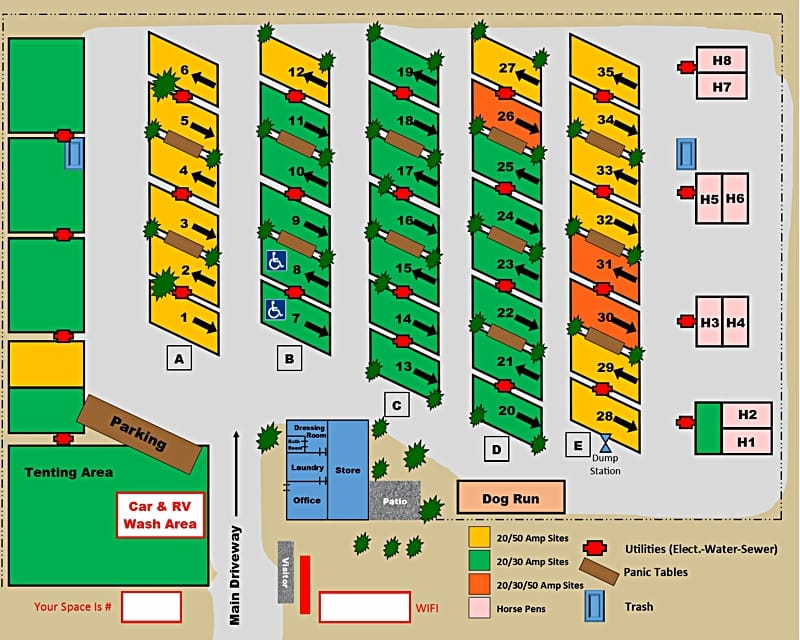
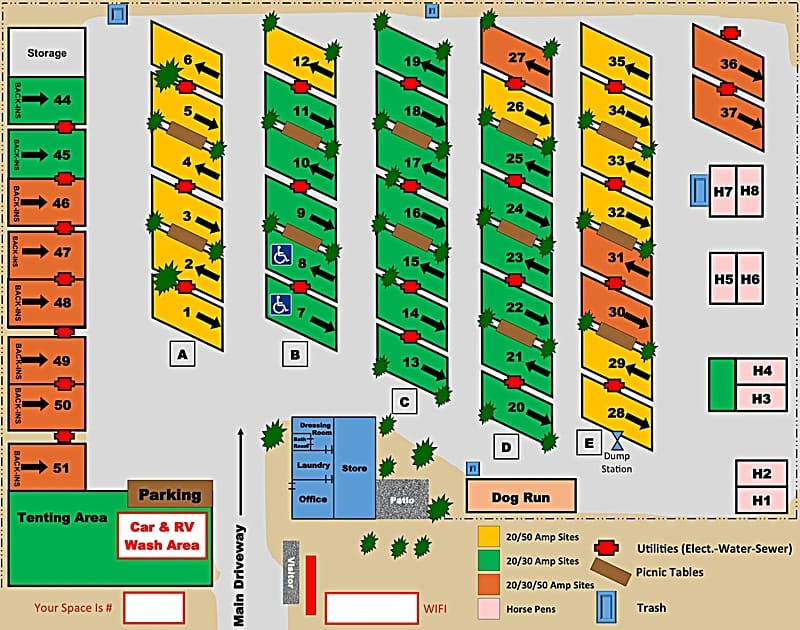
new maps

diff --git a/index.html b/index.html
@@ -115,8 +115,7 @@
 				Campground overview
 			</h3>
 			<ul>
-				<li>35 full-service spots water, electric, &amp; sewer</li>
-				<li>16 water &amp; electric spots</li>
+				<li>45 full-service double-wide spaces</li>
 				<li>Pull-through sites</li>
 				<li>Big-rig access</li>
 				<li>Tent camping</li>
@@ -128,9 +127,9 @@
 				Pricing
 			</h3>
 			<ul>
-				<li>$24 a night</li>
+				<li>$27 for 30-amp space and $29 for 50-amp space</li>
 				<li>$350 per month (includes electric)</li>
-				<li>$2 per additional person over 3 </li>
+				<li>$2 per additional person over 3</li>
 				<li>We also offer full time resident spots</li>
 				<li>We accept Visa and Mastercard</li>
 			</ul>

diff --git a/map.html b/map.html
@@ -118,7 +118,7 @@
 				Park layout
 			</h2>
 			<figure>
-				<a href="/park-map.html"> <img height="640" width="800" alt="Blaze-in-Saddle RV Park, Tucumcari, NM" src="/_assets/img/park-map.jpg" class="img-thumbnail" /> </a>
+				<a href="/park-map.html"> <img height="630" width="800" alt="Blaze-in-Saddle RV Park, Tucumcari, NM" src="/_assets/img/park-map.jpg" class="img-thumbnail" /> </a>
 				<figcaption>
 					Click on the map to view a larger version.
 				</figcaption>

diff --git a/park-map.html b/park-map.html
@@ -92,8 +92,7 @@
 					Park layout
 				</h2>
 				<figure>
-					<img height="1275" width="1594" alt="Blaze-in-Saddle RV Park, Tucumcari, NM" src="/_assets/img/park-map-large.jpg" class="img-thumbnail"
-					/>
+					<img height="1230" width="1562" alt="Blaze-in-Saddle RV Park, Tucumcari, NM" src="/_assets/img/park-map-large.jpg" class="img-thumbnail" />
 				</figure>
 				<!-- #bbinclude "footer.incl" -->
 		</div>
